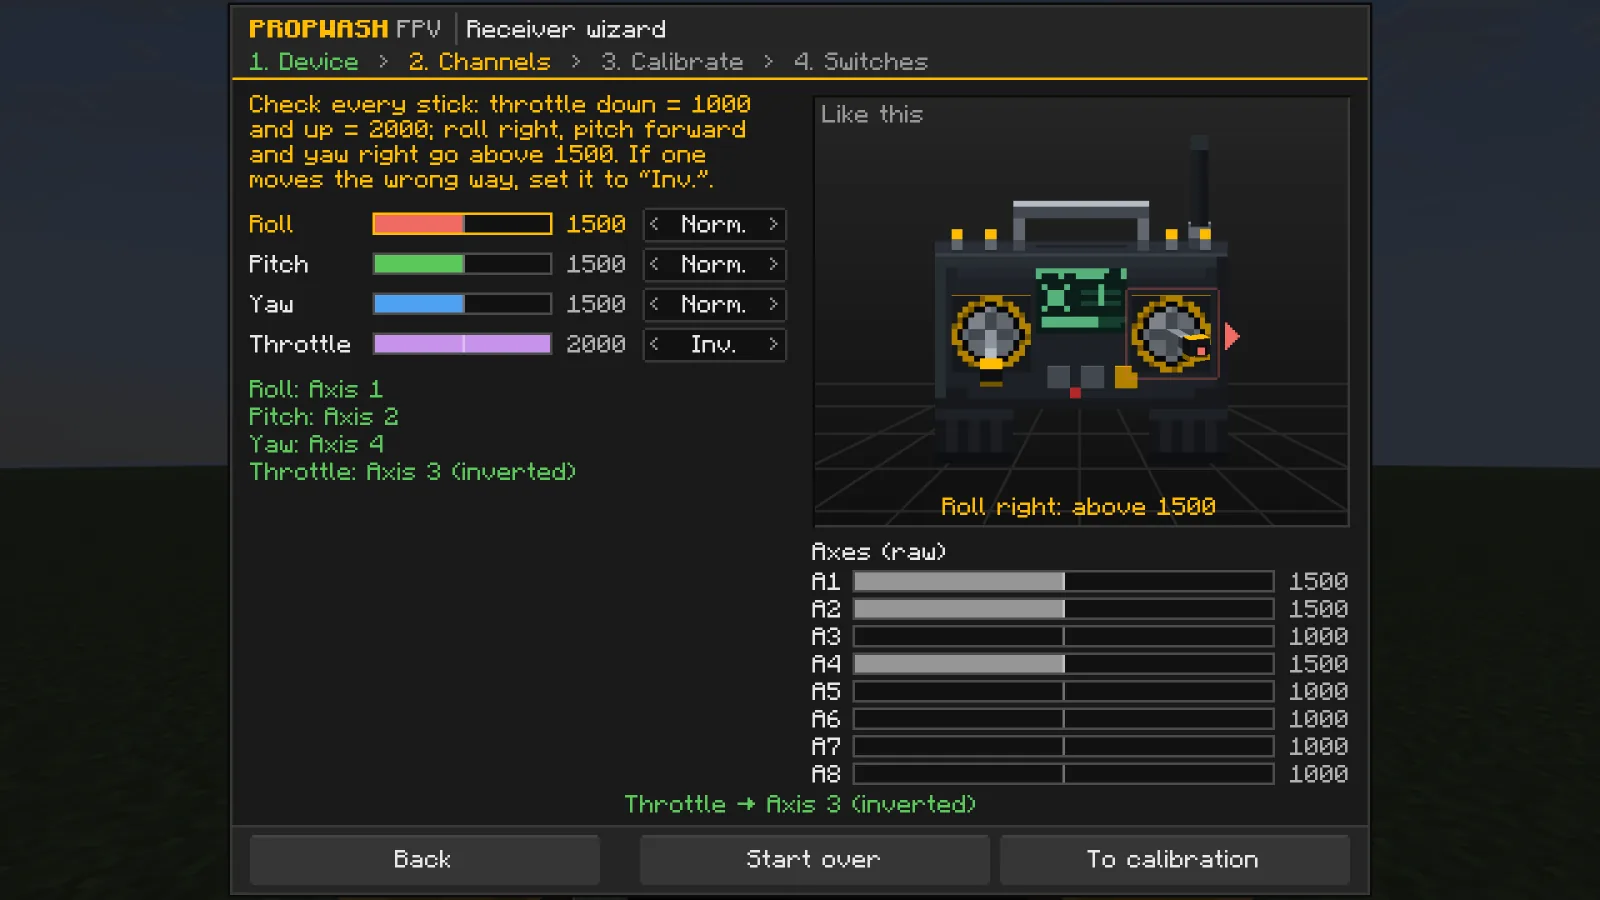
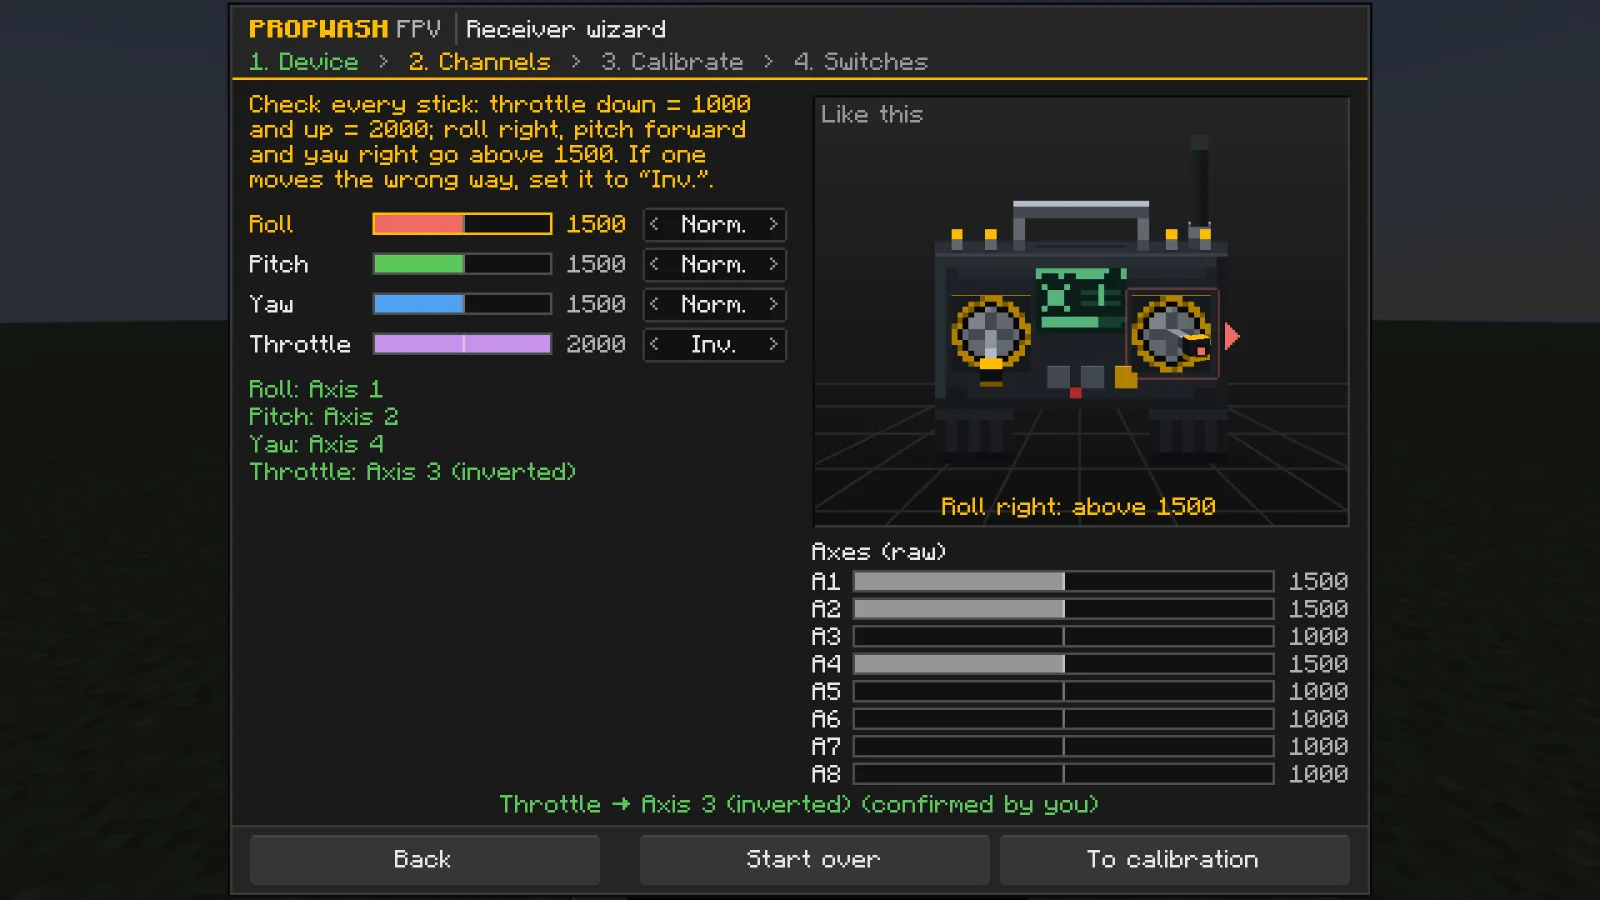
Website für Propwash 0.5.0 nach der Fix-Runde: Changelog-Seite aus dem verschobenen Tag v0.5.0 (Umschalt-Tasten mit GPS Rescue und Aufnahme, Gas-Rückfrage auch für invertierte Funken, partWear bleibt aus) mit deutschen Texten, Welt-Regeln-Doku mit neuen Texten zu Training und 3D-Modus erlaubt und de

diff --git a/docs/gamerules/index.html b/docs/gamerules/index.html
@@ -149,8 +149,8 @@
 </div>
 <div class="docs-card docs-card--plain" id="preset-training">
 <h3 class="docs-card__title">Training</h3>
-<p lang="en">Practice without consequences: drone and battery last forever, the handling stays as in Realistic – mild wind included.</p>
-<p lang="de">Üben ohne Folgen: Drohne und Akku halten ewig, das Flugverhalten bleibt wie bei Realistisch – auch der milde Wind.</p>
+<p lang="en">Practice without consequences: no wear and no prop strikes, the battery never runs empty or sags and motors never overheat – the drone keeps its full power. Wind and air stay as in Realistic.</p>
+<p lang="de">Üben ohne Folgen: kein Verschleiß und keine Propellertreffer, der Akku wird nie leer und bricht nicht ein, Motoren überhitzen nicht – die Drohne behält die volle Leistung. Wind und Luft bleiben wie bei Realistisch.</p>
 <ul>
 <li><span lang="en"><a href="#rule-hardware_limits">Hardware limits</a>: off</span><span lang="de"><a href="#rule-hardware_limits">Hardware-Grenzen</a>: aus</span></li>
 <li><span lang="en"><a href="#rule-battery_scale">Battery life</a>: 0 % (infinite)</span><span lang="de"><a href="#rule-battery_scale">Akkulaufzeit</a>: 0 % (unendlich)</span></li>
@@ -274,8 +274,8 @@
 <tbody>
 <tr id="rule-drone_hits_entities"><th scope="row"><span class="docs-rule__title"><span lang="en">Drones hit mobs and players</span><span lang="de">Drohnen treffen Lebewesen</span></span><br><code class="docs-rule__id">propwash:<wbr>drone_hits_entities</code></th><td><span lang="en">On</span><span lang="de">An</span></td><td><span class="nowrap"><code>true</code> / <code>false</code></span></td><td><p lang="en">Flying drones bounce off animals, monsters and players and hurt them by the force of the impact (mass × speed, at most 5 hearts). Players only with PvP. Off: drones fly through living things.</p>
 <p lang="de">Fliegende Drohnen prallen an Tieren, Monstern und Spielern ab und verletzen sie je nach Wucht (Masse × Tempo, höchstens 5 Herzen). Spieler nur mit PvP. Aus: Drohnen fliegen durch Lebewesen hindurch.</p><p class="docs-rule__example"><code>/gamerule propwash:drone_hits_entities false</code></p></td></tr>
-<tr id="rule-allow_3d_mode"><th scope="row"><span class="docs-rule__title"><span lang="en">3D mode allowed</span><span lang="de">3D-Modus erlaubt</span></span><br><code class="docs-rule__id">propwash:<wbr>allow_3d_mode</code></th><td><span lang="en">On</span><span lang="de">An</span></td><td><span class="nowrap"><code>true</code> / <code>false</code></span></td><td><p lang="en">Pilots may use 3D mode (reversible motors, throttle center = zero thrust) once they have unlocked it for themselves. Off: the mode stays off for everyone, for example on race servers where nobody should brake with reverse thrust.</p>
-<p lang="de">Piloten dürfen den 3D-Modus benutzen (umkehrbare Motoren, Gasmitte = Nullschub), wenn sie ihn für sich freigeschaltet haben. Aus: Der Modus bleibt für alle aus, etwa auf Rennservern, auf denen niemand mit Umkehrschub bremsen soll.</p><p class="docs-rule__example"><code>/gamerule propwash:allow_3d_mode false</code></p></td></tr>
+<tr id="rule-allow_3d_mode"><th scope="row"><span class="docs-rule__title"><span lang="en">3D mode allowed</span><span lang="de">3D-Modus erlaubt</span></span><br><code class="docs-rule__id">propwash:<wbr>allow_3d_mode</code></th><td><span lang="en">On</span><span lang="de">An</span></td><td><span class="nowrap"><code>true</code> / <code>false</code></span></td><td><p lang="en">Pilots may use 3D mode (reversible motors, throttle center = zero thrust) once they have unlocked it for themselves. Off: Propwash doesn't let anyone switch it on, for example on race servers where nobody should brake with reverse thrust. Like the flight model, the rule is applied by each pilot's game.</p>
+<p lang="de">Piloten dürfen den 3D-Modus benutzen (umkehrbare Motoren, Gasmitte = Nullschub), wenn sie ihn für sich freigeschaltet haben. Aus: Propwash lässt ihn niemanden einschalten, etwa auf Rennservern, auf denen niemand mit Umkehrschub bremsen soll. Wie das Flugmodell setzt das Spiel jedes Piloten die Regel um.</p><p class="docs-rule__example"><code>/gamerule propwash:allow_3d_mode false</code></p></td></tr>
 <tr id="rule-part_compatibility"><th scope="row"><span class="docs-rule__title"><span lang="en">Parts must fit</span><span lang="de">Teile müssen zusammenpassen</span></span><br><code class="docs-rule__id">propwash:<wbr>part_compatibility</code></th><td><span lang="en">On</span><span lang="de">An</span></td><td><span class="nowrap"><code>true</code> / <code>false</code></span></td><td><p lang="en">On: the workbench, imports and field service only build drones from parts that would fit together in reality (mounts, prop size, battery for the frame, accessory mounts). Off: every part fits every other. The notes stay visible, the drone flies with the real data of its parts and doesn't count for leaderboards. Overvoltage is still governed by “Hardware limits”.</p>
 <p lang="de">An: Werkbank, Import und Wartung bauen nur Drohnen aus Teilen, die auch in echt zusammenpassen (Halterungen, Propellergröße, Akku zum Rahmen, Zubehör-Halterung). Aus: Jedes Teil passt zu jedem. Die Hinweise bleiben sichtbar, die Drohne fliegt mit den echten Daten ihrer Teile und zählt nicht für Bestenlisten. Überspannung regelt weiter „Hardware-Grenzen“.</p><p class="docs-rule__example"><code>/gamerule propwash:part_compatibility false</code></p></td></tr>
 <tr id="rule-autonomous_rescue"><th scope="row"><span class="docs-rule__title"><span lang="en">GPS rescue without pilot</span><span lang="de">GPS Rescue ohne Pilot</span></span><br><code class="docs-rule__id">propwash:<wbr>autonomous_rescue</code></th><td><span lang="en">On</span><span lang="de">An</span></td><td><span class="nowrap"><code>true</code> / <code>false</code></span></td><td><p lang="en">If the return to home (GPS rescue) is running when the pilot leaves – remote put away, flight stopped or game left – the drone keeps flying on its own and lands at the home point. The server only keeps the chunks around the drone loaded and never flies into unexplored terrain. Off: without a pilot the motors stop, as before.</p>
@@ -339,7 +339,7 @@
 <h2 id="from-04" class="docs-h2"><a class="docs-anchor" href="#from-04" aria-hidden="true" tabindex="-1">#</a><span lang="en">Coming from 0.4</span><span lang="de">Umstieg von 0.4</span></h2>
 <ul>
 <li><span lang="en">The personal <em>Simulation</em> tab is gone; its physics options are world rules now. Old values in <code>config/propwash/drone.json</code> are ignored and removed on the next save.</span><span lang="de">Der persönliche Tab <em>Simulation</em> ist weg, seine Physik-Optionen sind jetzt Welt-Regeln. Alte Werte in <code>config/propwash/drone.json</code> werden ignoriert und beim nächsten Speichern entfernt.</span></li>
-<li><span lang="en">The server setting <code>partWear</code> in <code>server.json</code> is replaced by <code>/gamerule propwash:crash_damage false</code>.</span><span lang="de">Die Server-Einstellung <code>partWear</code> in <code>server.json</code> ersetzt <code>/gamerule propwash:crash_damage false</code>.</span></li>
+<li><span lang="en">The server setting <code>partWear</code> in <code>server.json</code> is replaced by <code>/gamerule propwash:crash_damage false</code>. A <code>"partWear": false</code> from 0.4 is carried over once when the server first starts with 0.5.</span><span lang="de">An die Stelle der Server-Einstellung <code>partWear</code> in <code>server.json</code> tritt <code>/gamerule propwash:crash_damage false</code>. Ein <code>"partWear": false</code> aus 0.4 übernimmt der Server beim ersten Start mit 0.5 einmal.</span></li>
 <li><span lang="en">Creative goggles no longer unlock physics options. They keep their free radio range and their own video settings.</span><span lang="de">Die Kreativ-Brille schaltet keine Physik-Optionen mehr frei. Sie behält ihre freie Funkreichweite und ihre eigenen Video-Einstellungen.</span></li>
 <li><span lang="en">Existing worlds get every rule with its default when they are loaded. Drones then fly as in 0.4 but bounce off mobs and players; <code>/gamerule propwash:drone_hits_entities false</code> lets them fly through as before.</span><span lang="de">Bestehende Welten bekommen beim Laden jede Regel mit ihrem Standardwert. Drohnen fliegen dann wie in 0.4, prallen aber an Lebewesen ab; mit <code>/gamerule propwash:drone_hits_entities false</code> fliegen sie wie früher hindurch.</span></li>
 <li><span lang="en">Personal settings stay personal: controls, OSD, FPV display and graphics.</span><span lang="de">Persönlich bleibt, was persönlich ist: Steuerung, OSD, FPV-Anzeige und Grafik.</span></li>

diff --git a/docs/guide/index.html b/docs/guide/index.html
@@ -142,7 +142,7 @@
 <p lang="de">Taucht eine Funke oder ein Gamepad zum ersten Mal auf, fragt Propwash, ob es jetzt eingerichtet werden soll (nie mitten im Flug): <em>Einrichten</em>, <em>Später</em> oder <em>Nie für dieses Gerät</em>. Der Empfänger-Assistent (Konfigurator <kbd>K</kbd> → <em>Empfänger</em> → <em>Empfänger-Assistent…</em>) führt dann durch vier Schritte:</p>
 <ol>
 <li><span lang="en"><strong>Device:</strong> pick the radio, a gamepad or the keyboard.</span><span lang="de"><strong>Gerät:</strong> Funke, Gamepad oder Tastatur wählen.</span></li>
-<li><span lang="en"><strong>Channels:</strong> move each stick when asked. For the throttle: push it fully up first, then pull it fully down and hold it there; where it rested before does not matter. A check page shows every channel live; <em>Inv.</em> flips one that moves the wrong way.</span><span lang="de"><strong>Kanäle:</strong> jeden Knüppel bewegen, wenn danach gefragt wird. Beim Gas: zuerst ganz nach oben schieben, dann ganz nach unten ziehen und dort halten; wo es vorher stand, spielt keine Rolle. Eine Prüfseite zeigt jeden Kanal live; <em>Inv.</em> dreht einen, der falsch herum läuft.</span></li>
+<li><span lang="en"><strong>Channels:</strong> move each stick when asked. For the throttle: push it fully up first, then pull it fully down and hold it there; where it rested before does not matter. If the direction contradicts where the throttle started or your current setting, the wizard asks where the throttle is now. A check page shows every channel live; <em>Inv.</em> flips one that moves the wrong way.</span><span lang="de"><strong>Kanäle:</strong> jeden Knüppel bewegen, wenn danach gefragt wird. Beim Gas: zuerst ganz nach oben schieben, dann ganz nach unten ziehen und dort halten; wo es vorher stand, spielt keine Rolle. Passt die Richtung nicht zur Startlage oder zu deiner Einstellung, fragt der Assistent, wo das Gas gerade steht. Eine Prüfseite zeigt jeden Kanal live; <em>Inv.</em> dreht einen, der falsch herum läuft.</span></li>
 <li><span lang="en"><strong>Calibrate:</strong> sticks centred, then every end stop.</span><span lang="de"><strong>Kalibrieren:</strong> Knüppel in die Mitte, dann alle Endanschläge.</span></li>
 <li><span lang="en"><strong>Switches:</strong> click <em>Assign</em> and flip the switch you want for a function.</span><span lang="de"><strong>Schalter:</strong> <em>Zuweisen</em> klicken und den gewünschten Schalter umlegen.</span></li>
 </ol>
